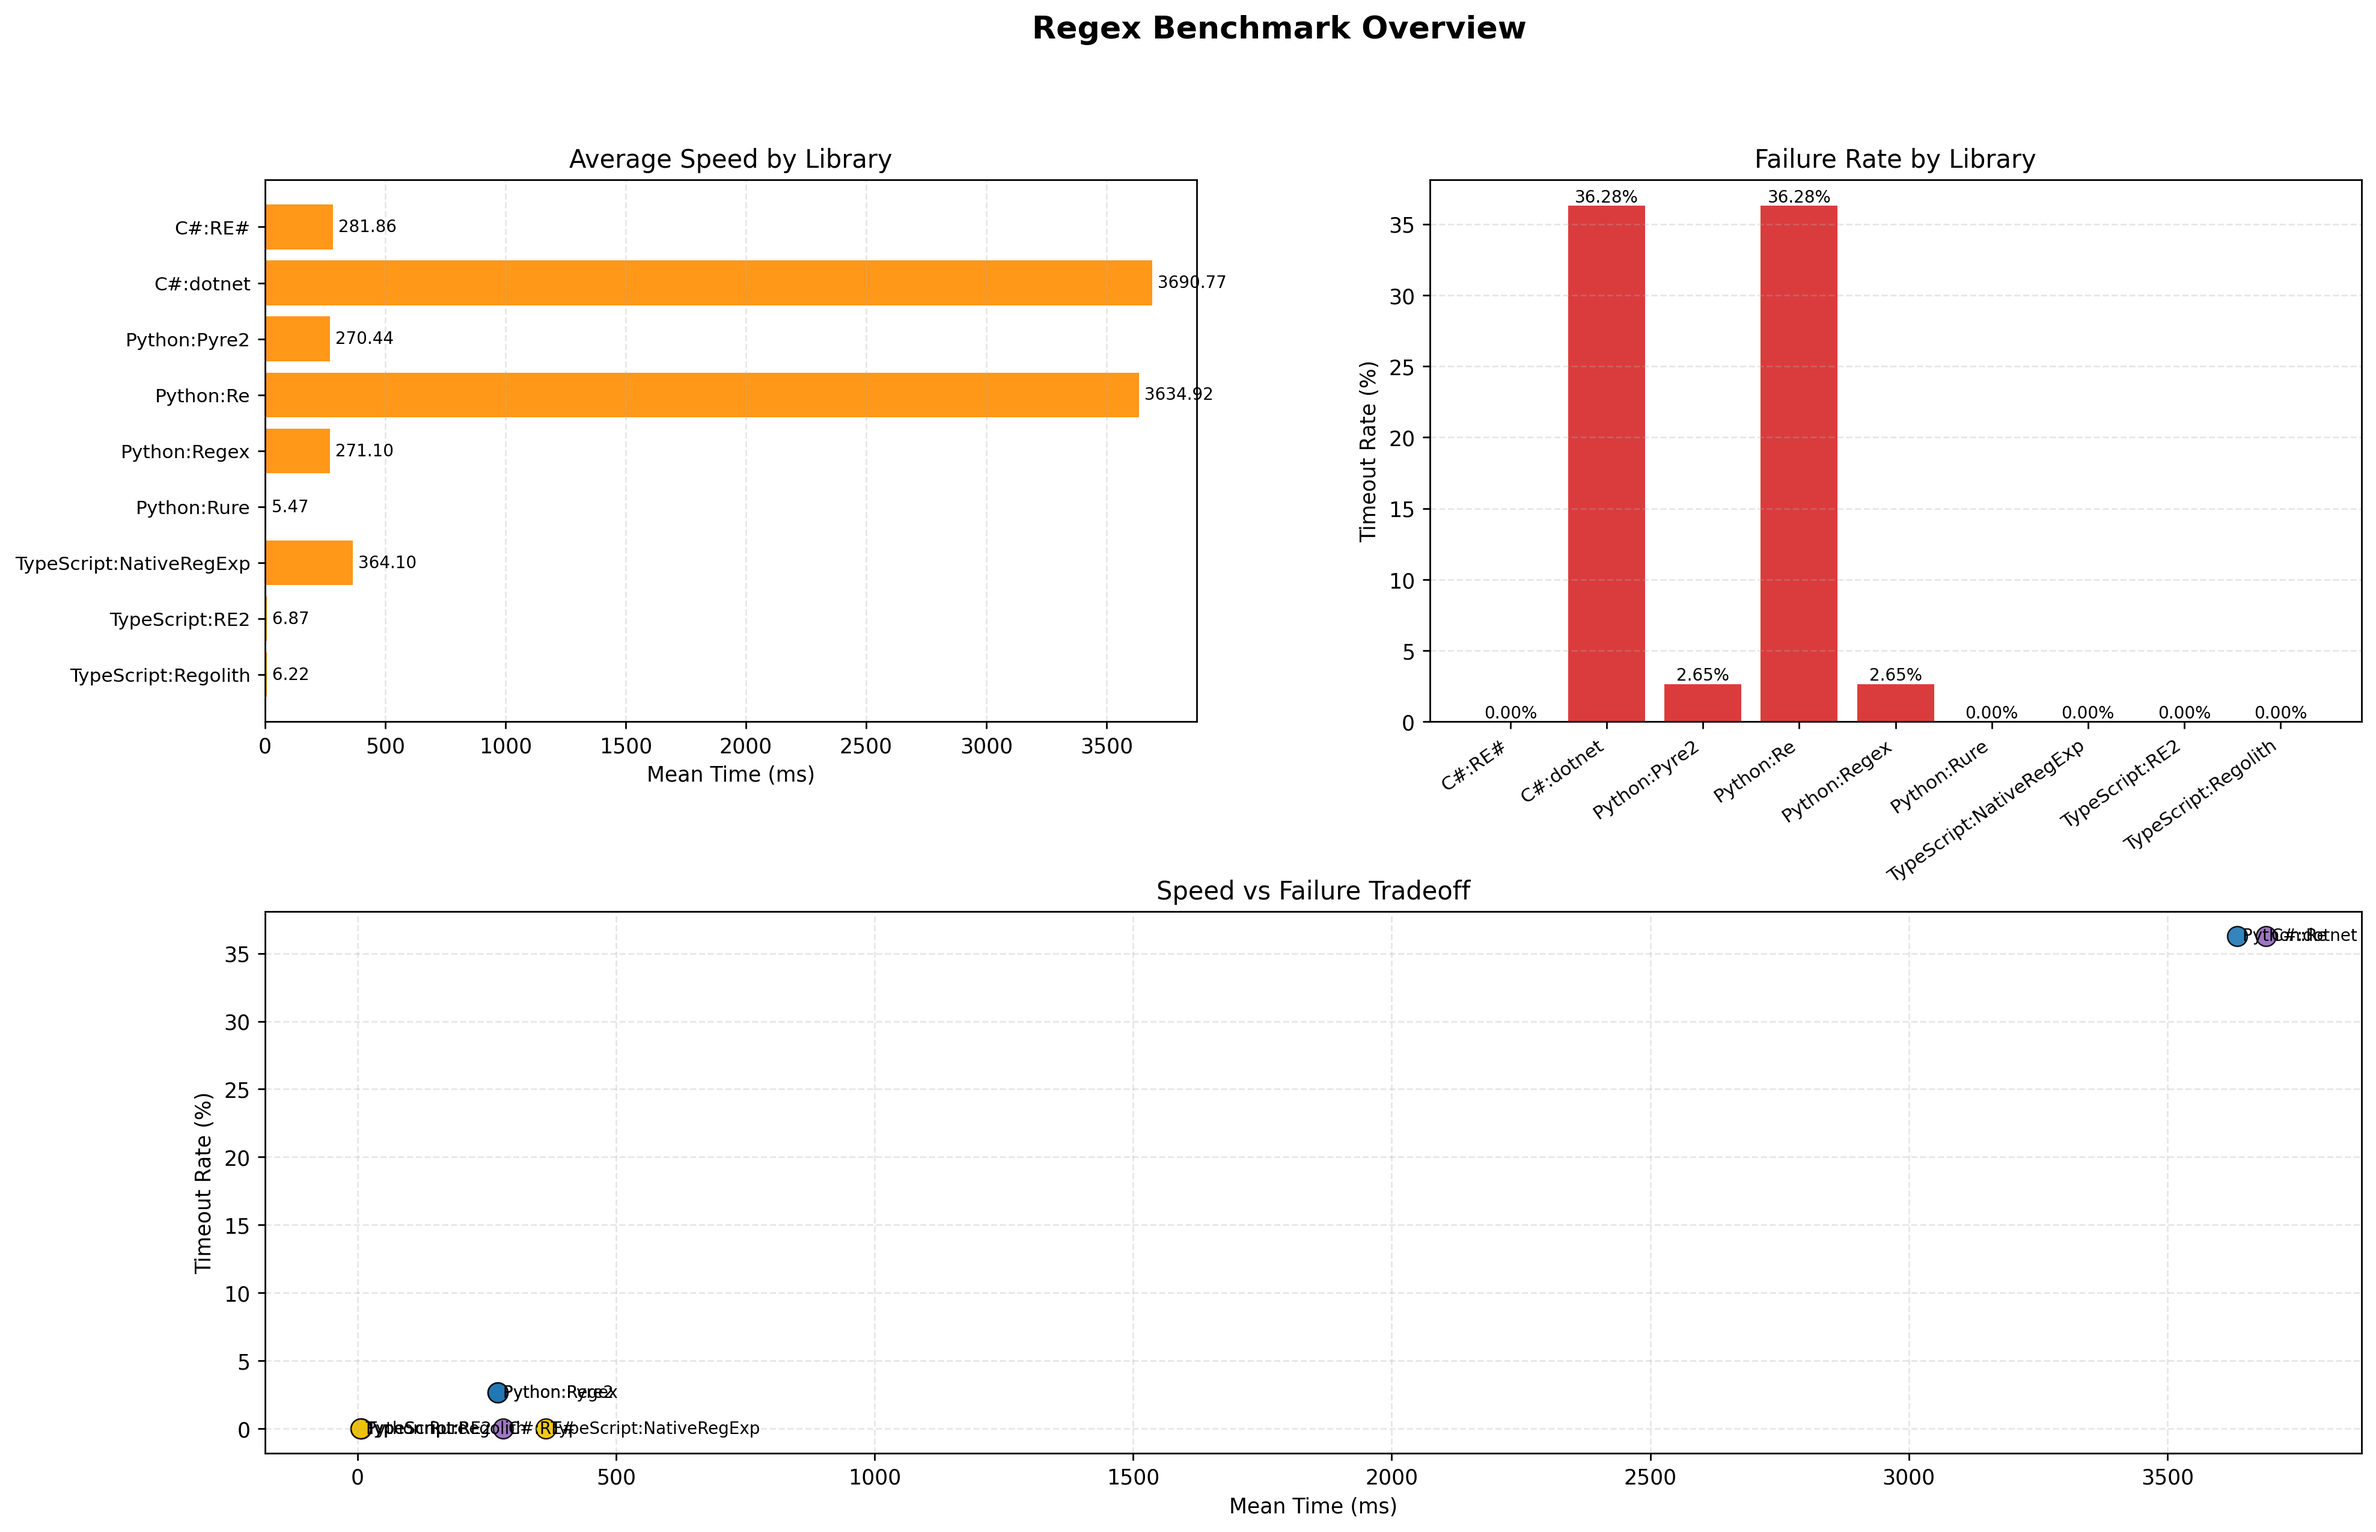
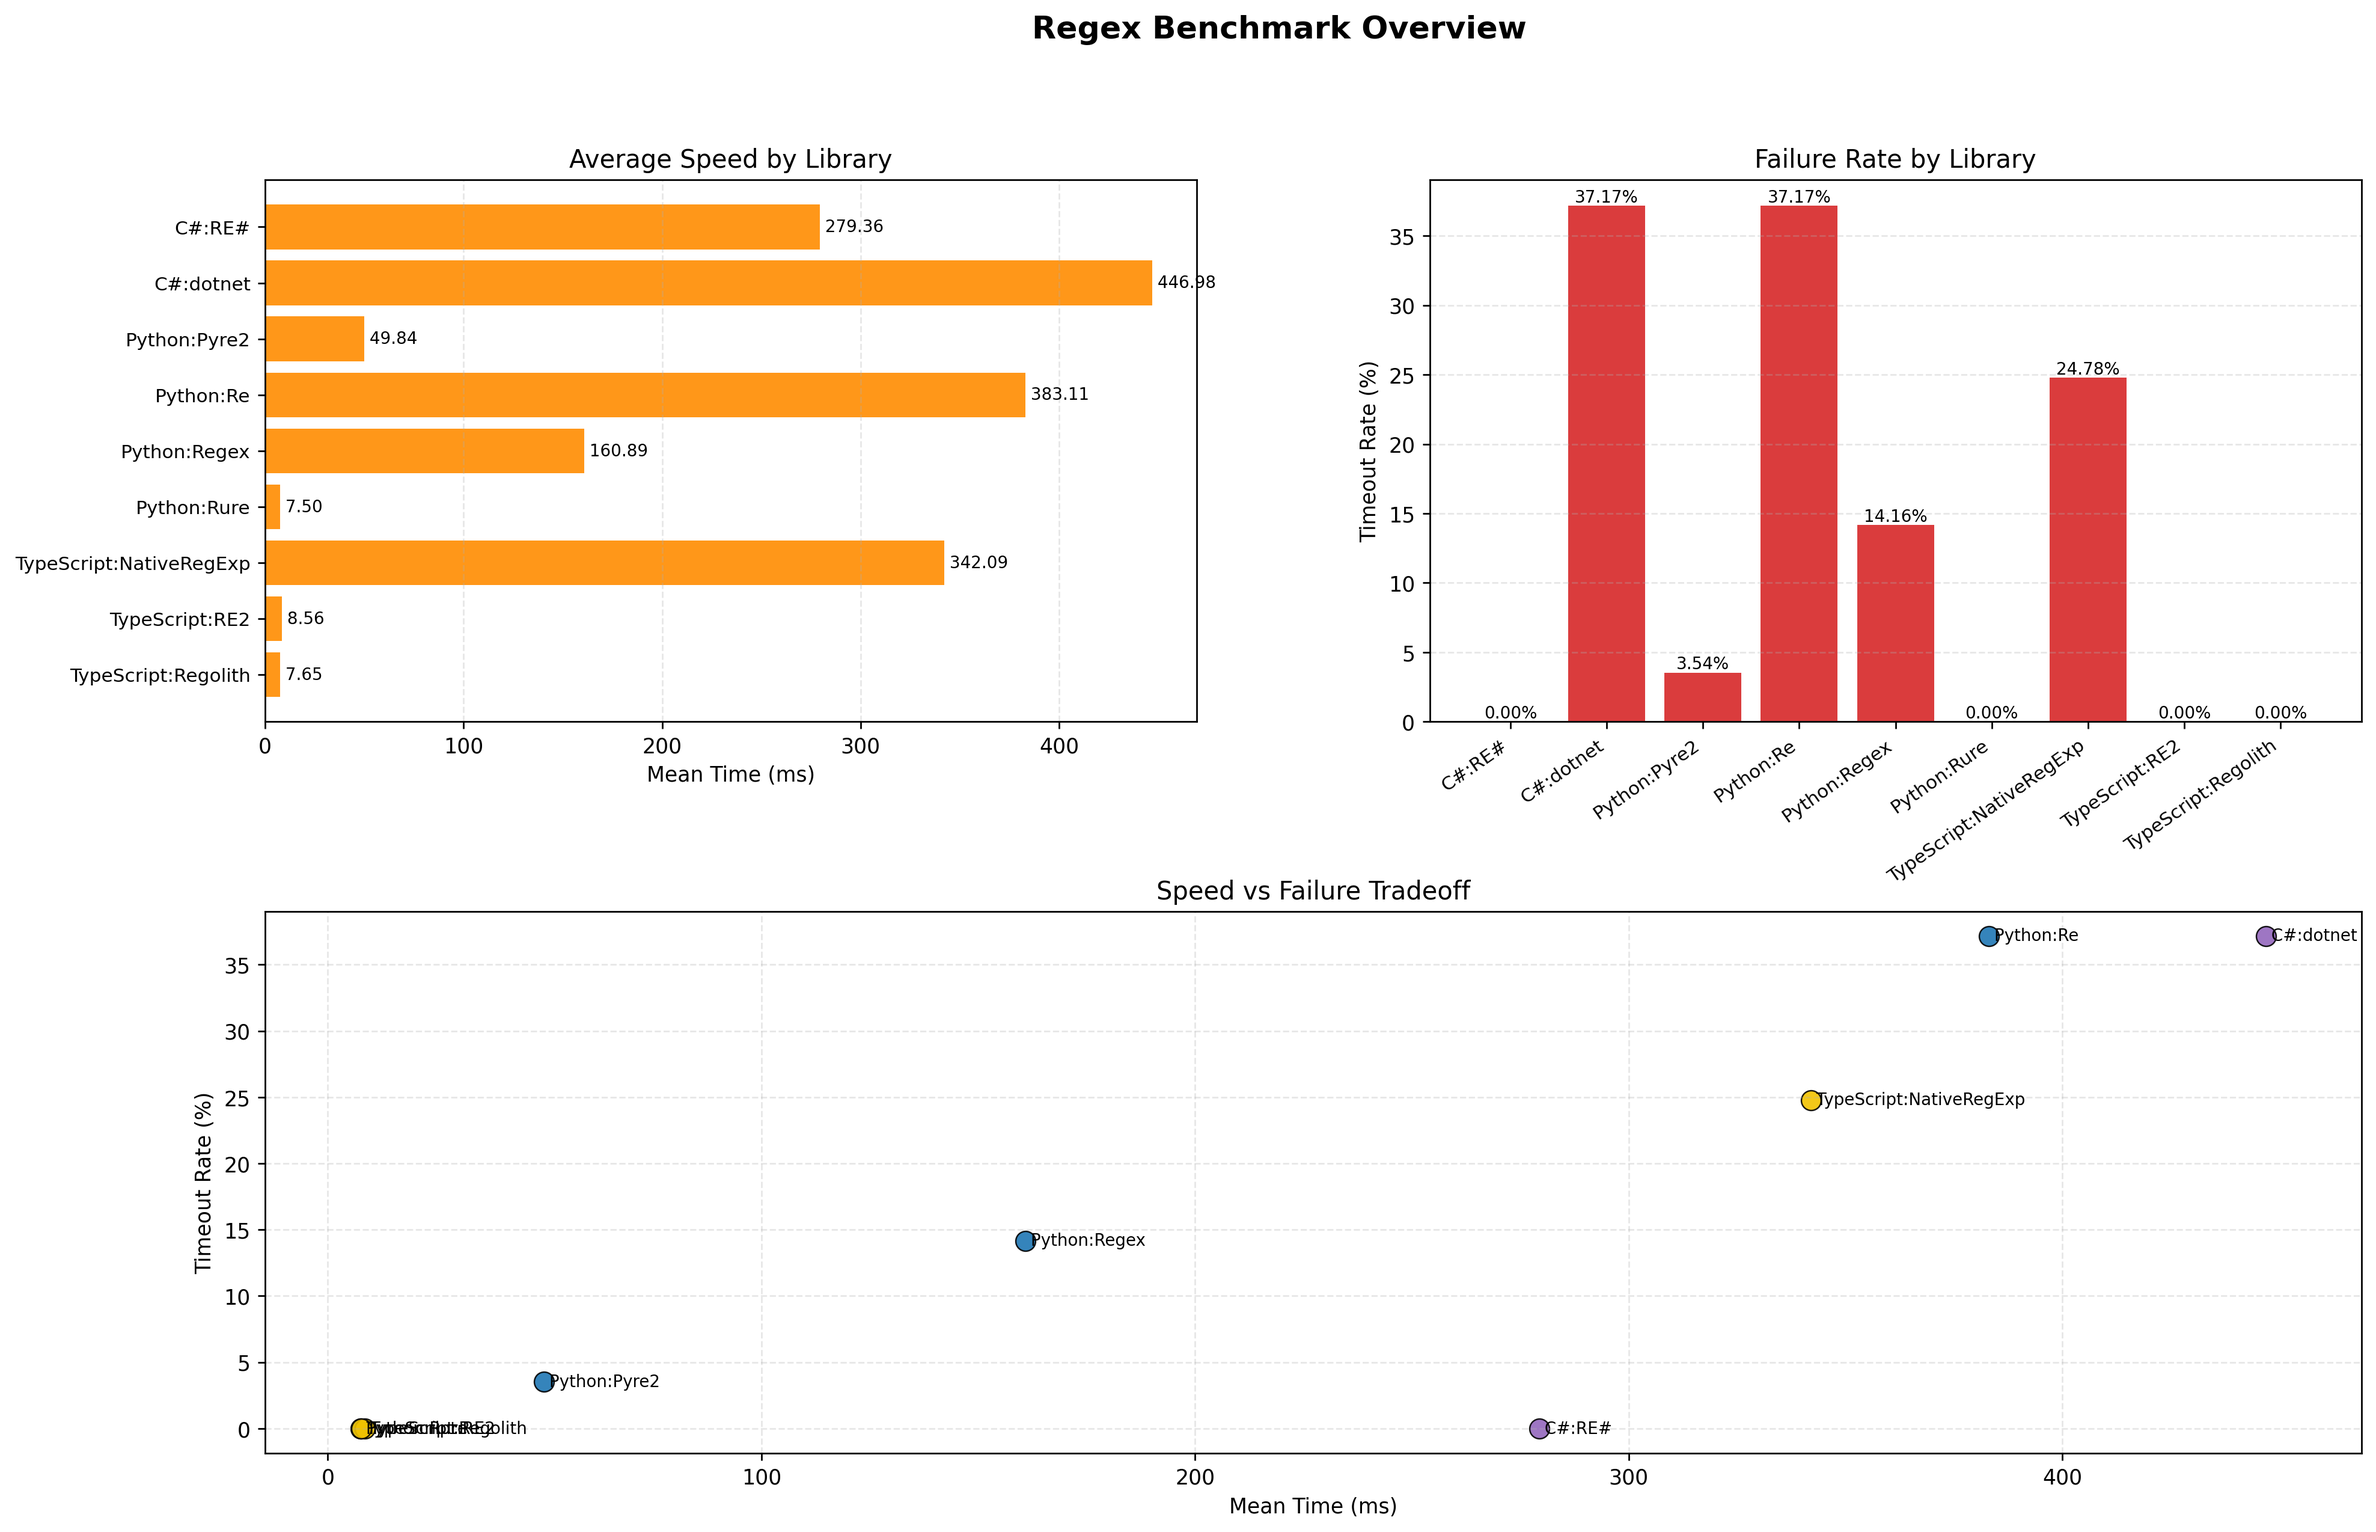
Add results from input size of 100_000
Note: The *_redos_test_results_timeout-1.json are not included
because they are multiple MBs

diff --git a/csharp/Program.cs b/csharp/Program.cs
@@ -12,7 +12,7 @@ using DotnetRegex = System.Text.RegularExpressions.Regex;
 
 class Program
 {
-    private const int DefaultInputSize = 50;
+    private const int DefaultInputSize = 100_000;
     private const int DefaultRuns = 3;
     private static readonly TimeSpan DefaultTimeout = TimeSpan.FromSeconds(2);
 
@@ -48,22 +48,30 @@ class Program
             return;
         }
 
+        var worstCaseSeconds = (double)tests.Count * libraries.Count * numRuns * timeoutSeconds;
+        Console.WriteLine($"Config: {tests.Count} tests x {libraries.Count} libraries x {numRuns} runs (timeout {timeoutSeconds}s each)");
+        Console.WriteLine($"Worst-case duration: {FormatDuration(worstCaseSeconds)} (if every test times out)");
+
+        var overallStopwatch = Stopwatch.StartNew();
         var allResults = RunAllTests(numRuns, libraries, tests, showTests);
+        overallStopwatch.Stop();
+        Console.WriteLine($"Completed all runs in {FormatDuration(overallStopwatch.Elapsed.TotalSeconds)}");
+
         var summaryStats = CalculateSummaryStats(allResults, libraries);
         SaveResults(allResults, summaryStats, libraries, numRuns, tests.Count, timeoutSeconds);
     }
 
     static void RunChild(string[] args)
     {
-        if (args.Length < 5)
+        if (args.Length < 4)
         {
-            WriteChildResult(new ChildResult { Error = "Child invocation requires engine, pattern, input, and testId." });
+            WriteChildResult(new ChildResult { Error = "Child invocation requires engine, pattern, and testId." });
             return;
         }
 
         var engine = args[1];
         var pattern = args[2];
-        var input = args[3];
+        var input = Console.In.ReadToEnd();
 
         try
         {
@@ -170,19 +178,28 @@ class Program
 
         for (var run = 0; run < numRuns; run++)
         {
+            var runStopwatch = Stopwatch.StartNew();
             Console.WriteLine($"Run {run + 1}/{numRuns}");
-            foreach (var test in tests)
+            for (var i = 0; i < tests.Count; i++)
             {
+                var test = tests[i];
                 if (showTests)
                 {
-                    Console.WriteLine($"  Test {test.Id}");
+                    Console.WriteLine($"  Test {test.Id} ({i + 1}/{tests.Count})");
                 }
 
                 foreach (var library in libraries)
                 {
-                    allResults.Add(RunTestWithTimeout(library, test.Id, test.Pattern, test.Input));
+                    var result = RunTestWithTimeout(library, test.Id, test.Pattern, test.Input);
+                    allResults.Add(result);
+                    if (result.Result.TimedOut)
+                    {
+                        Console.WriteLine($"    [{library.Name}] test {test.Id} TIMED OUT after {result.Result.Time:0.00}s");
+                    }
                 }
             }
+            runStopwatch.Stop();
+            Console.WriteLine($"Run {run + 1}/{numRuns} finished in {FormatDuration(runStopwatch.Elapsed.TotalSeconds)}");
         }
 
         return allResults;
@@ -195,7 +212,7 @@ class Program
         string input
     )
     {
-        var startInfo = CreateChildProcessStartInfo(library.Engine, pattern, input, testId);
+        var startInfo = CreateChildProcessStartInfo(library.Engine, pattern, testId);
         using var process = Process.Start(startInfo);
         var stopwatch = Stopwatch.StartNew();
 
@@ -207,6 +224,7 @@ class Program
 
         var stdoutTask = process.StandardOutput.ReadToEndAsync();
         var stderrTask = process.StandardError.ReadToEndAsync();
+        _ = WriteStdinAsync(process, input);
 
         if (!process.WaitForExit((int)library.Timeout.TotalMilliseconds))
         {
@@ -286,7 +304,6 @@ class Program
     static ProcessStartInfo CreateChildProcessStartInfo(
         string engine,
         string pattern,
-        string input,
         int testId
     )
     {
@@ -300,6 +317,7 @@ class Program
 
         var startInfo = new ProcessStartInfo
         {
+            RedirectStandardInput = true,
             RedirectStandardOutput = true,
             RedirectStandardError = true,
             UseShellExecute = false,
@@ -319,10 +337,31 @@ class Program
         startInfo.ArgumentList.Add("--child");
         startInfo.ArgumentList.Add(engine);
         startInfo.ArgumentList.Add(pattern);
-        startInfo.ArgumentList.Add(input);
         startInfo.ArgumentList.Add(testId.ToString(CultureInfo.InvariantCulture));
 
         return startInfo;
+    }
+
+    static async System.Threading.Tasks.Task WriteStdinAsync(Process process, string input)
+    {
+        try
+        {
+            await process.StandardInput.WriteAsync(input);
+            await process.StandardInput.FlushAsync();
+        }
+        catch (Exception)
+        {
+        }
+        finally
+        {
+            try
+            {
+                process.StandardInput.Close();
+            }
+            catch (Exception)
+            {
+            }
+        }
     }
 
     static void TryKillProcessTree(Process process)
@@ -527,6 +566,19 @@ class Program
         }
 
         return timeoutSeconds.ToString("0.###", CultureInfo.InvariantCulture).Replace(".", "_");
+    }
+
+    static string FormatDuration(double seconds)
+    {
+        if (seconds < 60)
+        {
+            return $"{seconds:0.0}s";
+        }
+        if (seconds < 3600)
+        {
+            return $"{seconds / 60:0.0}m ({seconds:0}s)";
+        }
+        return $"{seconds / 3600:0.00}h ({seconds:0}s)";
     }
 
     static string RepeatString(string value, int count)
